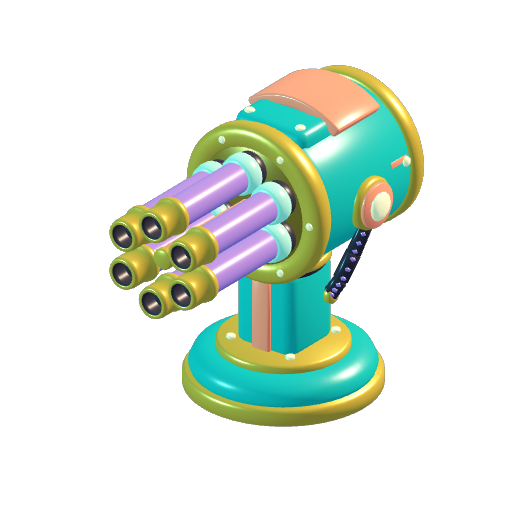
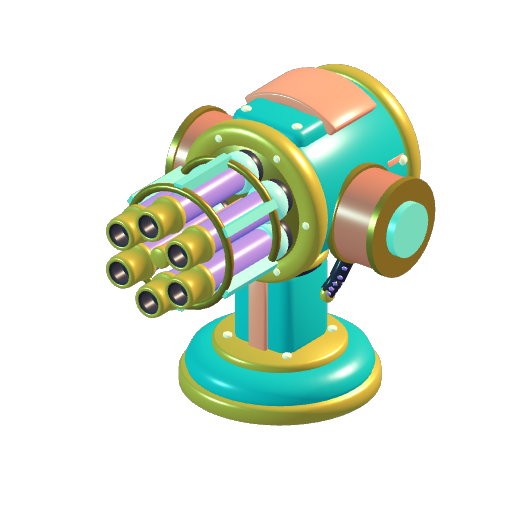
✨ Add radial Omnifire barrels and Cyclone Gatling hardware

Changed region(s): [[0.1875, 0.125, 0.875, 0.8438]]

diff --git a/doc/plans/turret-expansion-progress.md b/doc/plans/turret-expansion-progress.md
@@ -99,3 +99,7 @@ Repeater Blade adds a second open brass barrel above the authored gun; Stormblad
 ### Siege visual evolution
 
 Moonshot widens the authored open barrel and adds paired hydraulic recoil housings, sliding rods and reinforcement bands. Worldbreaker adds a second hydraulic pair and a larger bore. The launch point is now a child of the recoiling barrel, including the base Siege form, so shot origins follow the visible opening. Barrel length stays unchanged to preserve close-target behavior. Both later-form portraits rebuilt and reviewed. Regression checks cover the per-stage cylinder pairs and muzzle movement/settling during recoil.
+
+### Omnifire and Cyclone visual evolution
+
+Omnifire reuses the authored Crossfire barrels and collars in a twelve-spoke radial assembly. Every round now leaves its own open bore; the existing twelve evenly spaced directions remain unchanged. Cyclone Gatling gains twin ammunition drums and a brass/mint cage parented to the spinning rotor. These additions distinguish the final forms from their level-10 chassis. Both final portraits regenerated and reviewed. Regression checks match all twelve projectile origins and headings to their visible muzzles and verify the final Gatling hardware.
